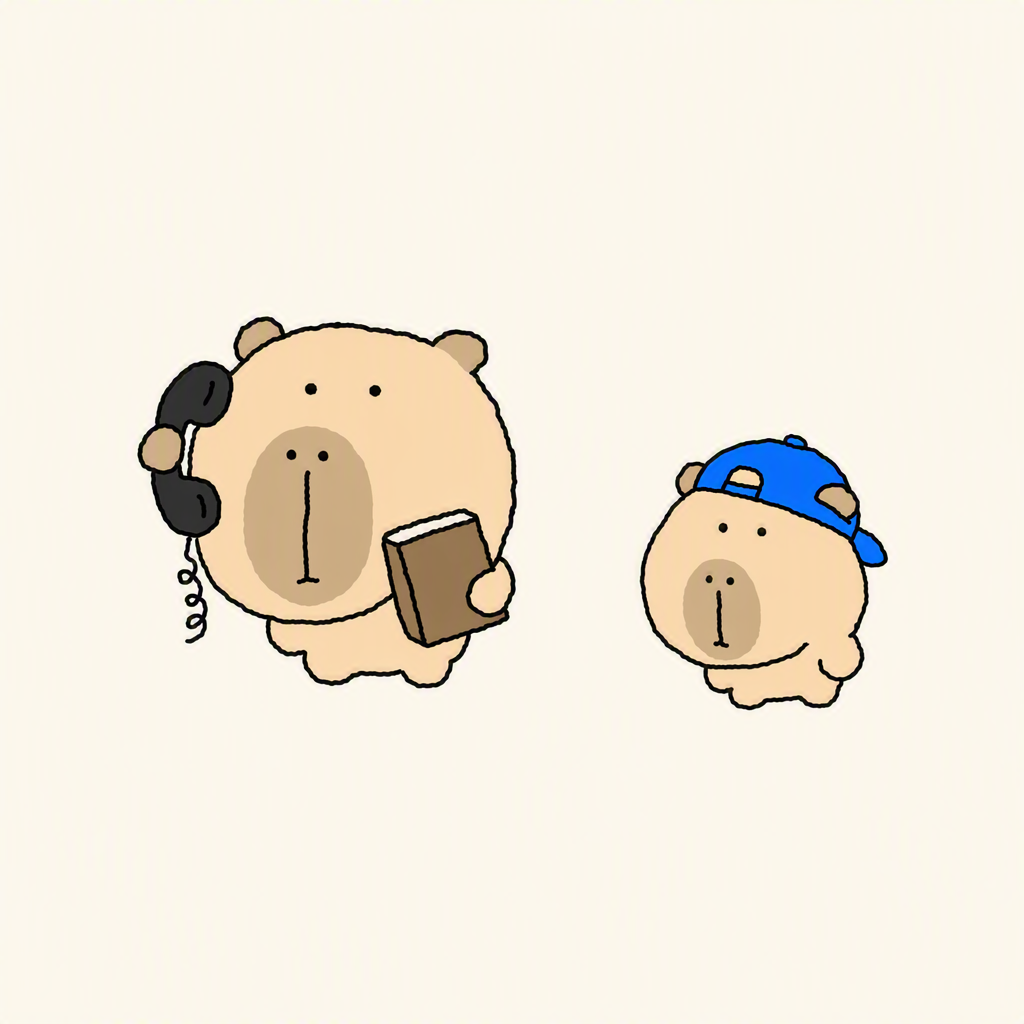
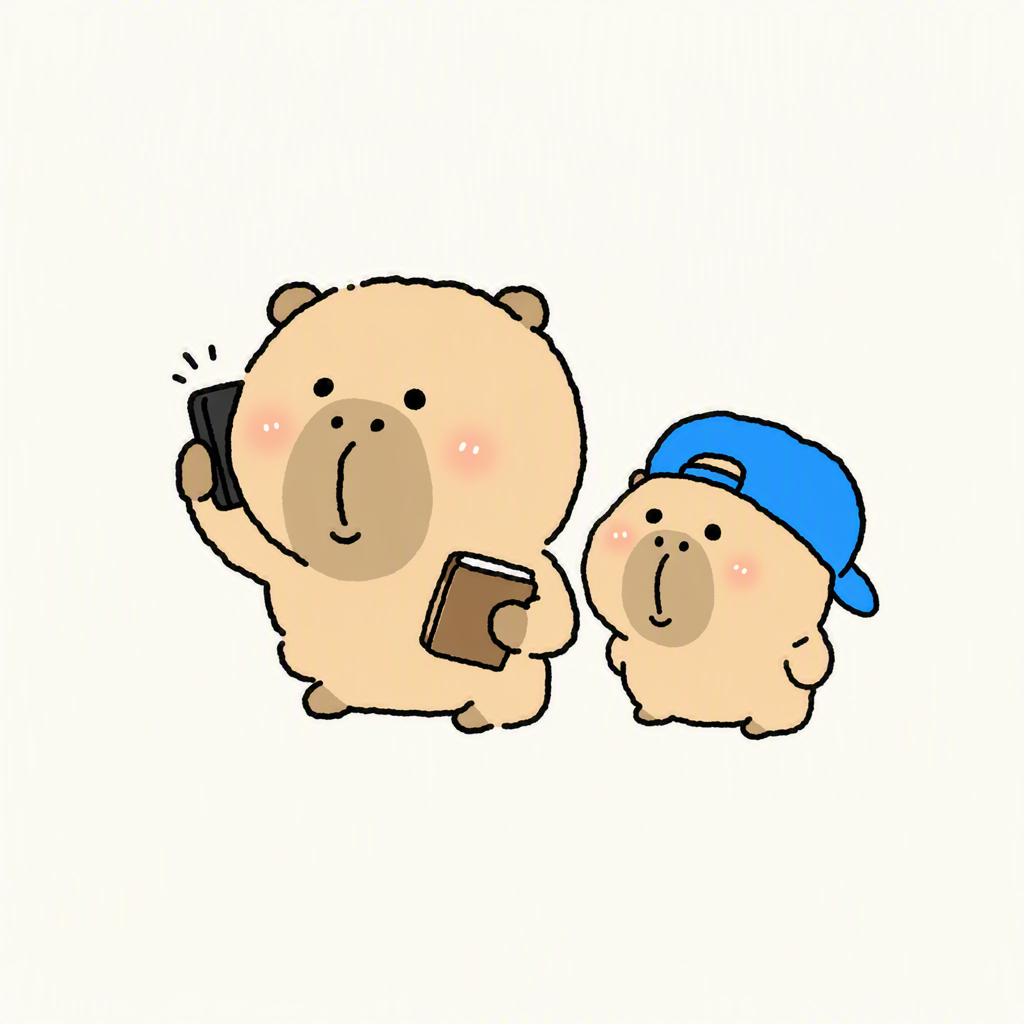
Swap GetPronounce 1:1 ads to Minjae's trial and refresh the phone sticker.
Hide the tutor footer on the trial page, drop the extra $5 sentence, and replace Preply/italki slots with our offer.

Changed region(s): [[0.125, 0.25, 0.875, 0.7188]]

diff --git a/src/components/pronounce-site/PronounceSiteFooter.tsx b/src/components/pronounce-site/PronounceSiteFooter.tsx
@@ -6,58 +6,24 @@ import { MixupsSubscribeForm } from "@/components/pronounce-site/MixupsSubscribe
 import { PRONOUNCE_SITE_NAME } from "@/lib/pronounceSite/brand";
 import { pronounceChromeCopy } from "@/lib/pronounceSite/chromeCopy";
 import { mixupsCopyForLang, mixupsPath } from "@/lib/pronounceMixups";
-import { globalGoPath } from "@/lib/globalSite/affiliate";
-import { trackAffiliateClick } from "@/lib/ga";
+import { MinjaeTrialTutorCta } from "@/components/trial/MinjaeTrialTutorCta";
+import { isFreeKoreanClassPath } from "@/lib/trial/localhostOnly";
 
 export function PronounceSiteFooter() {
   const pathname = usePathname() || "";
   const copy = pronounceChromeCopy(pathname);
   const mixups = mixupsCopyForLang(copy.lang);
   const onMixupsPage = /\/mix-ups\/?$/.test(pathname);
-  const preplyHref = globalGoPath("preply", { lang: copy.lang });
-  const italkiHref = globalGoPath("italki", { lang: copy.lang });
+  const hideTutorAd = isFreeKoreanClassPath(pathname);
 
   return (
     <footer className="global-footer">
       <div className="global-shell">
-        <div className="global-footer-tutor">
-          <p className="mixups-banner-kicker">Live practice</p>
-          <h2 className="global-footer-tutor-title">
-            Practice with a {mixups.langName} tutor
-          </h2>
-          <p className="global-footer-tutor-body">
-            After you listen here, use a short lesson to say it back with a real
-            person.
-          </p>
-          <div className="global-footer-tutor-actions">
-            <a
-              className="global-btn"
-              href={preplyHref}
-              onClick={() =>
-                trackAffiliateClick({
-                  partner: "preply",
-                  placement: "pronounce_footer_tutor",
-                  lang: copy.lang,
-                })
-              }
-            >
-              Preply · 50% off first lesson
-            </a>
-            <a
-              className="global-btn global-btn-secondary"
-              href={italkiHref}
-              onClick={() =>
-                trackAffiliateClick({
-                  partner: "italki",
-                  placement: "pronounce_footer_tutor",
-                  lang: copy.lang,
-                })
-              }
-            >
-              italki · $10 off
-            </a>
+        {hideTutorAd ? null : (
+          <div className="global-footer-tutor">
+            <MinjaeTrialTutorCta />
           </div>
-        </div>
+        )}
 
         {onMixupsPage ? null : (
           <div className="global-footer-subscribe">

diff --git a/src/components/pronounce-site/PronounceSiteHeader.tsx b/src/components/pronounce-site/PronounceSiteHeader.tsx
@@ -13,6 +13,7 @@ import { PRONOUNCE_SITE_NAME } from "@/lib/pronounceSite/brand";
 import { pronounceChromeCopy } from "@/lib/pronounceSite/chromeCopy";
 import { PronounceBrandMark } from "@/components/pronounce-site/PronounceBrandMark";
 import { MinjaeTrialBanner } from "@/components/trial/MinjaeTrialBanner";
+import { freeKoreanClassPath } from "@/lib/trial/localhostOnly";
 
 export function PronounceSiteHeader() {
   const [open, setOpen] = useState(false);
@@ -50,9 +51,12 @@ export function PronounceSiteHeader() {
             <span className="global-brand-mark">{PRONOUNCE_SITE_NAME}</span>
           </Link>
           <div className="pronounce-header-actions">
-            <a className="global-header-tutor" href="/go/preply?lang=zh">
-              Tutor <span>50% off</span>
-            </a>
+            <Link
+              className="global-header-tutor"
+              href={freeKoreanClassPath("pronounce")}
+            >
+              Free trial <span>$5 after</span>
+            </Link>
             <button
               type="button"
               className="pronounce-nav-toggle"
@@ -70,7 +74,7 @@ export function PronounceSiteHeader() {
           className="global-nav pronounce-nav-desktop"
           aria-label="Languages"
         >
-          <Link href="/" data-lang="zh" lang="zh">
+          <Link href="/" data-lang="zh" lang="zh" prefetch={false}>
             {GLOBAL_LANG_META.zh?.native ?? "中文"}
           </Link>
           {PRONOUNCE_PREFIX_LANGS.map((code) => {
@@ -82,6 +86,7 @@ export function PronounceSiteHeader() {
                 data-lang={code}
                 lang={code}
                 dir={meta.dir}
+                prefetch={false}
               >
                 {GLOBAL_LANG_META[code]?.native ?? code}
               </Link>
@@ -97,7 +102,7 @@ export function PronounceSiteHeader() {
       >
         <nav className="pronounce-nav-drawer-nav" aria-label="Languages">
           <p className="pronounce-nav-drawer-label">Languages</p>
-          <Link href="/" data-lang="zh" lang="zh" onClick={close}>
+          <Link href="/" data-lang="zh" lang="zh" prefetch={false} onClick={close}>
             {GLOBAL_LANG_META.zh?.native ?? "中文"}
             <span>Chinese</span>
           </Link>
@@ -111,6 +116,7 @@ export function PronounceSiteHeader() {
                 data-lang={code}
                 lang={code}
                 dir={meta.dir}
+                prefetch={false}
                 onClick={close}
               >
                 {GLOBAL_LANG_META[code]?.native ?? code}

diff --git a/src/components/global-site/GlobalLangHub.tsx b/src/components/global-site/GlobalLangHub.tsx
@@ -14,6 +14,7 @@ import { globalGoPath } from "@/lib/globalSite/affiliate";
 import { atlasLangHubH1 } from "@/lib/seo/variedCopy";
 import { AMAZON_ASSOCIATE_DISCLOSURE_PRONOUNCE } from "@/lib/affiliateAmazon";
 import { isPronounceSiteDeployment } from "@/lib/pronounceSite/brand";
+import { freeKoreanClassPath } from "@/lib/trial/localhostOnly";
 
 type Props = { code: string; page?: number };
 
@@ -52,12 +53,21 @@ export async function GlobalLangHub({ code, page = 1 }: Props) {
             Vocabulary charts with audio and example sentences.
           </p>
           <div className="global-cta-row">
-            <a
-              className="global-btn global-btn-stamp"
-              href={globalGoPath("preply", { lang: code })}
-            >
-              Book a {lang.name} tutor · 50% off
-            </a>
+            {isPronounceSiteDeployment() ? (
+              <Link
+                className="global-btn global-btn-stamp"
+                href={freeKoreanClassPath("pronounce")}
+              >
+                Free Korean trial with Minjae
+              </Link>
+            ) : (
+              <a
+                className="global-btn global-btn-stamp"
+                href={globalGoPath("preply", { lang: code })}
+              >
+                Book a {lang.name} tutor · 50% off
+              </a>
+            )}
           </div>
         </div>
       </section>

diff --git a/src/components/trial/MinjaeTrialTutorPanel.tsx b/src/components/trial/MinjaeTrialTutorPanel.tsx
@@ -1,0 +1,33 @@
+import Link from "next/link";
+
+import { freeKoreanClassPath } from "@/lib/trial/localhostOnly";
+
+/** Pin-page tutor promo on GetPronounce — our offer, not Preply / italki. */
+export function MinjaeTrialTutorPanel() {
+  const href = freeKoreanClassPath("pronounce");
+  return (
+    <aside className="global-tutor-panel">
+      <div className="global-tutor-preply">
+        <div className="global-tutor-preply-copy">
+          <p className="global-tutor-kicker">30-minute free trial</p>
+          <h2>Learn Korean 1-on-1 with Minjae</h2>
+          <p>Phone lesson, textbook included. Then $5 per session.</p>
+          <Link className="global-btn" href={href}>
+            Book a free trial
+          </Link>
+        </div>
+        <Link className="global-tutor-ad" href={href} aria-label="Book a free trial">
+          {/* eslint-disable-next-line @next/next/no-img-element */}
+          <img
+            src="/brand/jjibara-phone-lesson.png?v=4"
+            alt="Jjibara on a phone lesson"
+            width={300}
+            height={300}
+            loading="lazy"
+            decoding="async"
+          />
+        </Link>
+      </div>
+    </aside>
+  );
+}

diff --git a/src/components/trial/MinjaeTrialTutorCta.tsx b/src/components/trial/MinjaeTrialTutorCta.tsx
@@ -1,0 +1,28 @@
+import Link from "next/link";
+
+import { freeKoreanClassPath } from "@/lib/trial/localhostOnly";
+
+/** GetPronounce 1:1 slot — our trial instead of Preply / italki. */
+export function MinjaeTrialTutorCta({
+  headingClassName = "global-footer-tutor-title",
+  bodyClassName = "global-footer-tutor-body",
+}: {
+  headingClassName?: string;
+  bodyClassName?: string;
+}) {
+  return (
+    <>
+      <p className="mixups-banner-kicker">1-on-1 Korean</p>
+      <h2 className={headingClassName}>Learn Korean 1-on-1 with Minjae</h2>
+      <p className={bodyClassName}>
+        30-minute free trial over the phone. Textbook included. Then $5 per
+        session.
+      </p>
+      <div className="global-footer-tutor-actions">
+        <Link className="global-btn" href={freeKoreanClassPath("pronounce")}>
+          Book a free trial
+        </Link>
+      </div>
+    </>
+  );
+}

diff --git a/src/components/global-site/GlobalTutorPanel.tsx b/src/components/global-site/GlobalTutorPanel.tsx
@@ -5,6 +5,8 @@ import * as React from "react";
 import { pickAffiliateTutorPartner } from "@/lib/affiliateTutor";
 import { globalGoPath, type AffiliatePartner } from "@/lib/globalSite/affiliate";
 import { trackAffiliateClick } from "@/lib/ga";
+import { MinjaeTrialTutorPanel } from "@/components/trial/MinjaeTrialTutorPanel";
+import { isPronounceSiteDeployment } from "@/lib/pronounceSite/brand";
 
 type Props = {
   lang: string;
@@ -22,6 +24,10 @@ export function GlobalTutorPanel({ lang, langName, pinId }: Props) {
   React.useEffect(() => {
     setPartner(pickAffiliateTutorPartner());
   }, []);
+
+  if (isPronounceSiteDeployment()) {
+    return <MinjaeTrialTutorPanel />;
+  }
 
   if (!partner) {
     return (

diff --git a/src/components/trial/FreeKoreanClassOffer.tsx b/src/components/trial/FreeKoreanClassOffer.tsx
@@ -158,13 +158,10 @@ export function FreeKoreanClassOffer() {
         <li>30-minute free trial</li>
         <li>$5 per session after the trial</li>
       </ul>
-      <p className={styles.body}>
-        After the free trial, 1-on-1 tutoring is <strong>$5 per session</strong>.
-      </p>
       <figure className={styles.figure}>
         <Image
           className={styles.art}
-          src="/brand/jjibara-phone-lesson.png?v=3"
+          src="/brand/jjibara-phone-lesson.png?v=4"
           alt="Jjibara on a phone call with a book, and the small blue-hat sidekick standing next to him"
           width={1024}
           height={1024}

diff --git a/src/app/pronounce-site/page.tsx b/src/app/pronounce-site/page.tsx
@@ -78,9 +78,9 @@ export default async function PronounceHomePage() {
           <Link className="global-btn global-btn-secondary" href="/words/ni-hao/">
             Example: 你好
           </Link>
-          <a className="global-btn global-btn-stamp" href="/go/preply?lang=zh">
-            Book a tutor · 50% off
-          </a>
+          <Link className="global-btn global-btn-stamp" href="/ko/free-korean-class">
+            Free Korean trial with Minjae
+          </Link>
         </div>
       </section>
 
